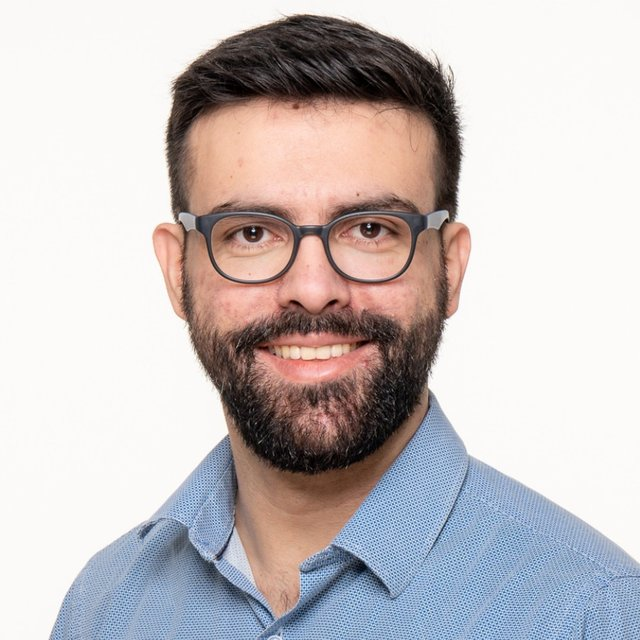
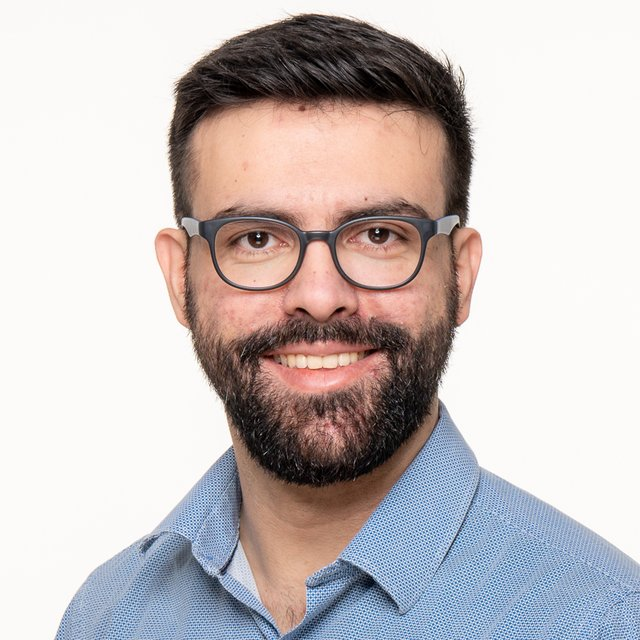
Add hero portrait and sharper About photo
- Large portrait in the hero (desktop) with location and language badge
- Re-crop the About photo from the high-resolution original
- Keep full-resolution originals out of /public in git-ignored
  assets/originals/
- Use proper ISO language codes (PT/EN/DE)

Changed region(s): [[0.0625, 0.0, 1.0, 1.0]]

diff --git a/app/page.tsx b/app/page.tsx
@@ -20,38 +20,63 @@ export default function Home() {
           aria-hidden
           className="pointer-events-none absolute -top-40 right-[-10%] size-[36rem] rounded-full bg-accent opacity-15 blur-3xl"
         />
-        <Container className="relative pb-16 pt-20 sm:pb-24 sm:pt-28">
-          {site.available && (
-            <p className="mb-6 inline-flex items-center gap-2 rounded-full border border-line bg-card px-3 py-1 text-xs font-medium">
-              <span className="relative flex size-2">
-                <span className="absolute inline-flex size-full animate-ping rounded-full bg-emerald-400 opacity-75" />
-                <span className="relative inline-flex size-2 rounded-full bg-emerald-500" />
-              </span>
-              Available for new projects
-            </p>
-          )}
-          <p className="text-lg text-muted">Hi, I&apos;m {site.firstName} 👋 · {site.role}</p>
-          <h1 className="mt-3 max-w-4xl text-4xl font-bold tracking-tight text-balance sm:text-6xl">
-            {/* the word "facts" in the tagline gets the accent colour */}
-            {site.tagline.split(/(facts)/).map((part, i) =>
-              part === "facts" ? (
-                <span key={i} className="text-accent">
-                  {part}
+        <Container className="relative grid items-center gap-12 pb-16 pt-20 sm:pb-24 sm:pt-28 lg:grid-cols-[1.4fr_1fr]">
+          <div>
+            {site.available && (
+              <p className="mb-6 inline-flex items-center gap-2 rounded-full border border-line bg-card px-3 py-1 text-xs font-medium">
+                <span className="relative flex size-2">
+                  <span className="absolute inline-flex size-full animate-ping rounded-full bg-emerald-400 opacity-75" />
+                  <span className="relative inline-flex size-2 rounded-full bg-emerald-500" />
                 </span>
-              ) : (
-                part
-              ),
+                Available for new projects
+              </p>
             )}
-          </h1>
-          <p className="mt-6 max-w-2xl text-lg leading-relaxed text-muted">{site.intro}</p>
-          <div className="mt-8 flex flex-wrap gap-3">
-            <ButtonLink href={site.bookingUrl}>
-              <Icon name="calendar" className="size-4" /> Book a free 30-min call
-            </ButtonLink>
-            <ButtonLink href="#work" variant="secondary">
-              See my work <Icon name="arrowRight" className="size-4" />
-            </ButtonLink>
+            <p className="text-lg text-muted">Hi, I&apos;m {site.firstName} 👋 · {site.role}</p>
+            <h1 className="mt-3 max-w-4xl text-4xl font-bold tracking-tight text-balance sm:text-6xl">
+              {/* the word "facts" in the tagline gets the accent colour */}
+              {site.tagline.split(/(facts)/).map((part, i) =>
+                part === "facts" ? (
+                  <span key={i} className="text-accent">
+                    {part}
+                  </span>
+                ) : (
+                  part
+                ),
+              )}
+            </h1>
+            <p className="mt-6 max-w-2xl text-lg leading-relaxed text-muted">{site.intro}</p>
+            <div className="mt-8 flex flex-wrap gap-3">
+              <ButtonLink href={site.bookingUrl}>
+                <Icon name="calendar" className="size-4" /> Book a free 30-min call
+              </ButtonLink>
+              <ButtonLink href="#work" variant="secondary">
+                See my work <Icon name="arrowRight" className="size-4" />
+              </ButtonLink>
+            </div>
           </div>
+
+          {site.heroPhoto && (
+            <div className="relative mx-auto hidden w-full max-w-sm lg:block">
+              <div aria-hidden className="absolute -inset-3 translate-x-4 translate-y-4 rounded-[2rem] bg-accent/20" />
+              <Image
+                src={site.heroPhoto}
+                alt={`Portrait of ${site.owner}`}
+                width={800}
+                height={1000}
+                priority
+                sizes="(min-width: 1024px) 384px, 0px"
+                className="relative aspect-[4/5] w-full rounded-[2rem] object-cover shadow-2xl shadow-black/10 ring-1 ring-line"
+              />
+              <div className="absolute -bottom-5 -left-6 rounded-2xl border border-line bg-card px-4 py-3 shadow-xl shadow-black/10">
+                <p className="flex items-center gap-1.5 text-sm font-semibold">
+                  <Icon name="mapPin" className="size-4 text-accent" /> {site.location}
+                </p>
+                <p className="mt-0.5 font-mono text-xs text-muted">
+                  {site.about.languages.map((l) => l.code).join(" · ")}
+                </p>
+              </div>
+            </div>
+          )}
         </Container>
       </section>
 

diff --git a/site.config.ts b/site.config.ts
@@ -17,6 +17,8 @@ export const site = {
   location: "Vienna, Austria",
   /** Headshot in /public, or "" to hide. */
   photo: "/guilherme.jpg",
+  /** Large portrait shown in the hero on desktop, or "" to hide. */
+  heroPhoto: "/guilherme-portrait.jpg",
   tagline: "I turn messy data into facts you can act on.",
   intro:
     "I build data pipelines, Lakehouse architectures and Digital Twins, from PLCs and sensors on the shop floor to dashboards and ML models in the cloud. I'm a Control & Automation Engineer by training, so I treat operational problems as software problems.",
@@ -88,9 +90,9 @@ export const site = {
       { group: "Tools", items: ["Git", "Bash", "Tableau", "Alteryx", "Jupyter", "R"] },
     ],
     languages: [
-      { name: "Portuguese", level: "Native" },
-      { name: "English", level: "C1" },
-      { name: "German", level: "B2" },
+      { name: "Portuguese", code: "PT", level: "Native" },
+      { name: "English", code: "EN", level: "C1" },
+      { name: "German", code: "DE", level: "B2" },
     ],
     experience: [
       {
